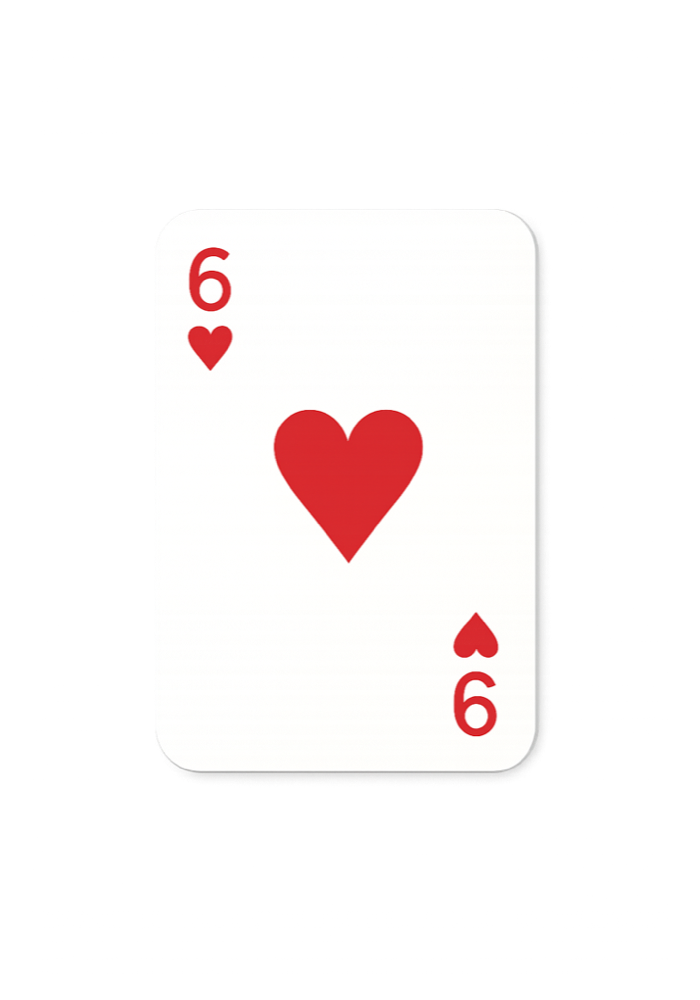
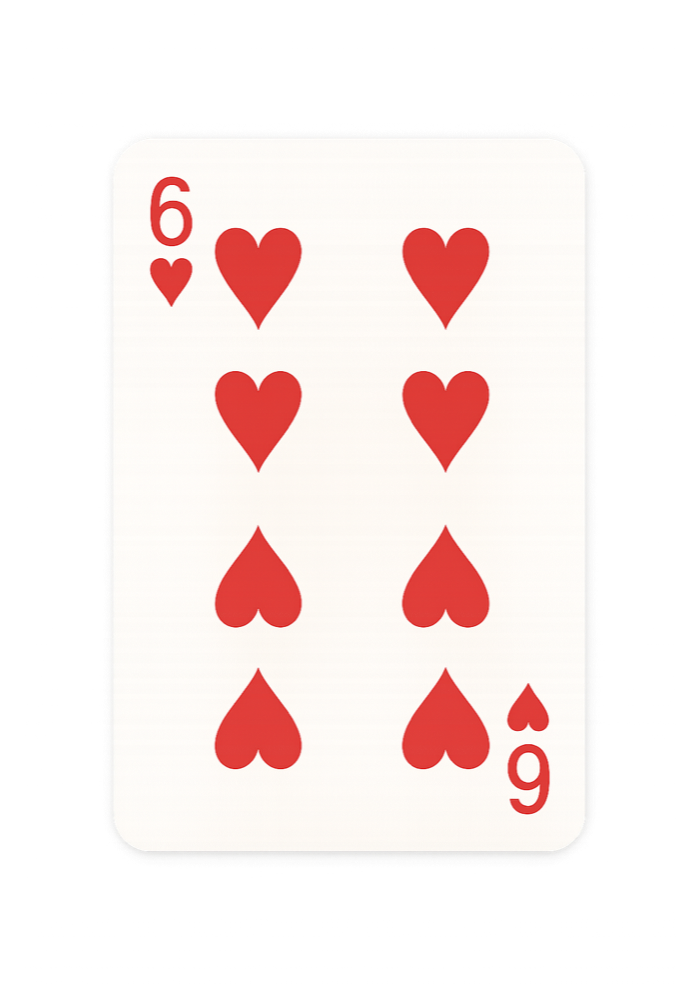
feat: update card size to large and adjust hand margin in BlotScreen

diff --git a/src/screens/BlotScreen.tsx b/src/screens/BlotScreen.tsx
@@ -276,7 +276,7 @@ const BlotScreen = ({navigation}: any) => {
                   card={card}
                   onPress={() => playCard(card)}
                   isPlayable={canPlayCard(card, currentPlayer.hand, gameState.currentTrick, gameState.trump)}
-                  size="medium"
+                  size="large"
                 />
               ))}
             </View>
@@ -454,7 +454,7 @@ const styles = StyleSheet.create({
   },
   hand: {
     flexDirection: 'row',
-    marginTop: 32,
+    marginTop: 75,
   },
   trumpSelection: {
     flex: 1,

diff --git a/src/components/Card.tsx b/src/components/Card.tsx
@@ -28,7 +28,7 @@ const Card: React.FC<CardProps> = ({
   const sizes = {
     small: { width: 50, height: 70 },
     medium: { width: 70, height: 98 },
-    large: { width: 90, height: 126 },
+    large: { width: 120, height: 166 },
   };
 
   const cardSize = sizes[size];